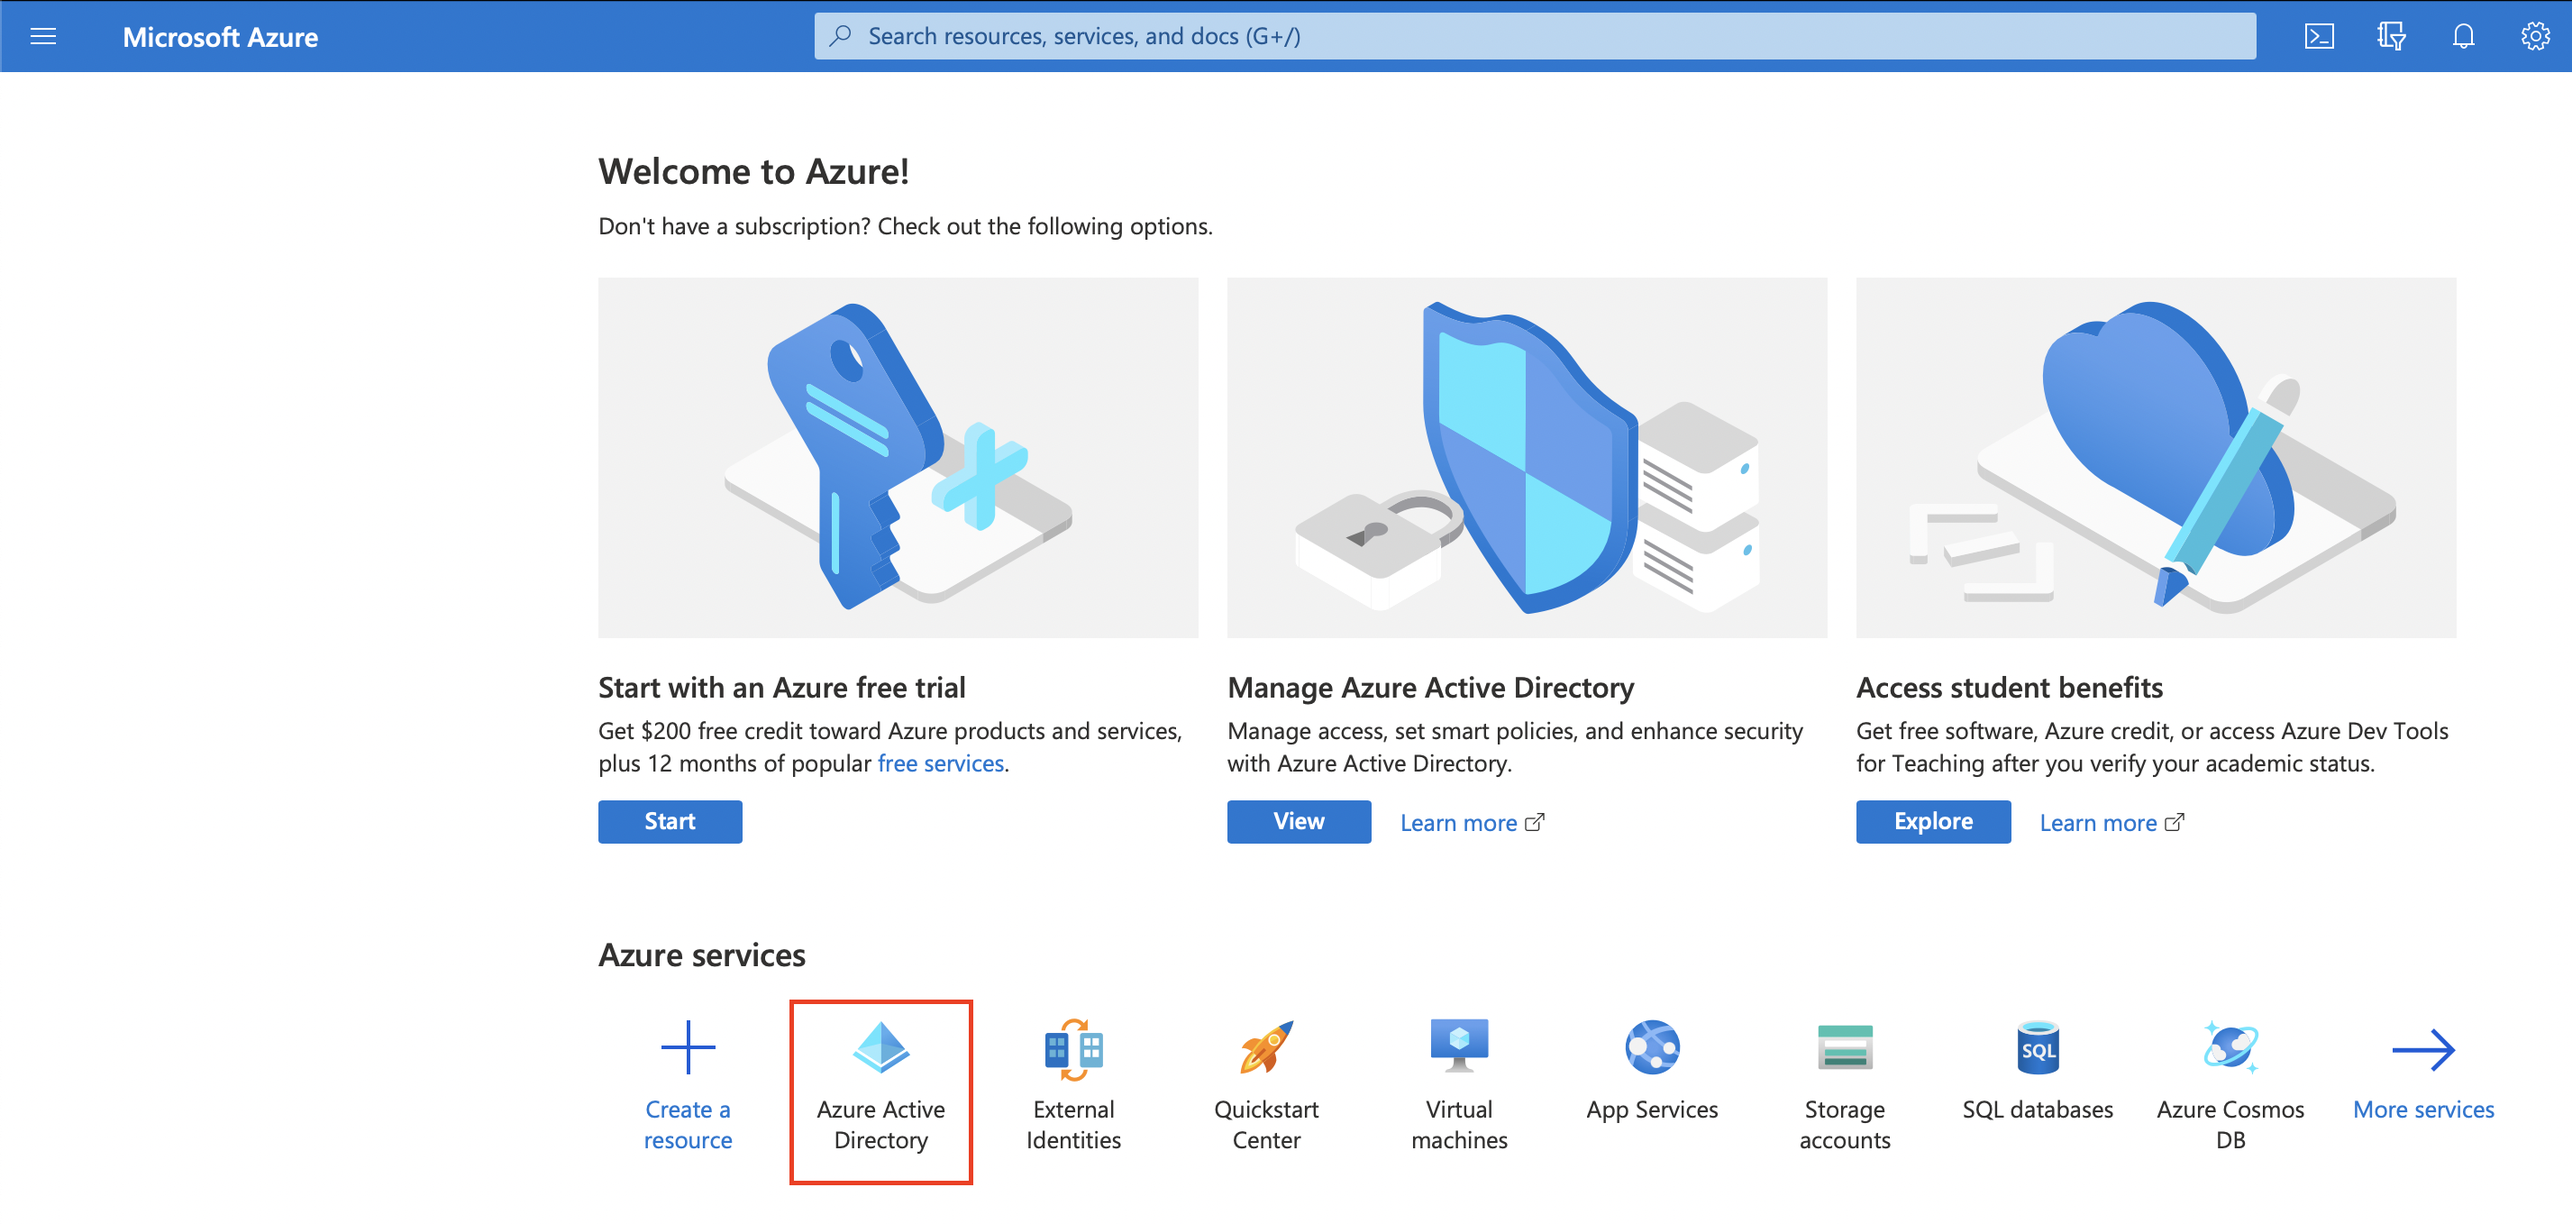
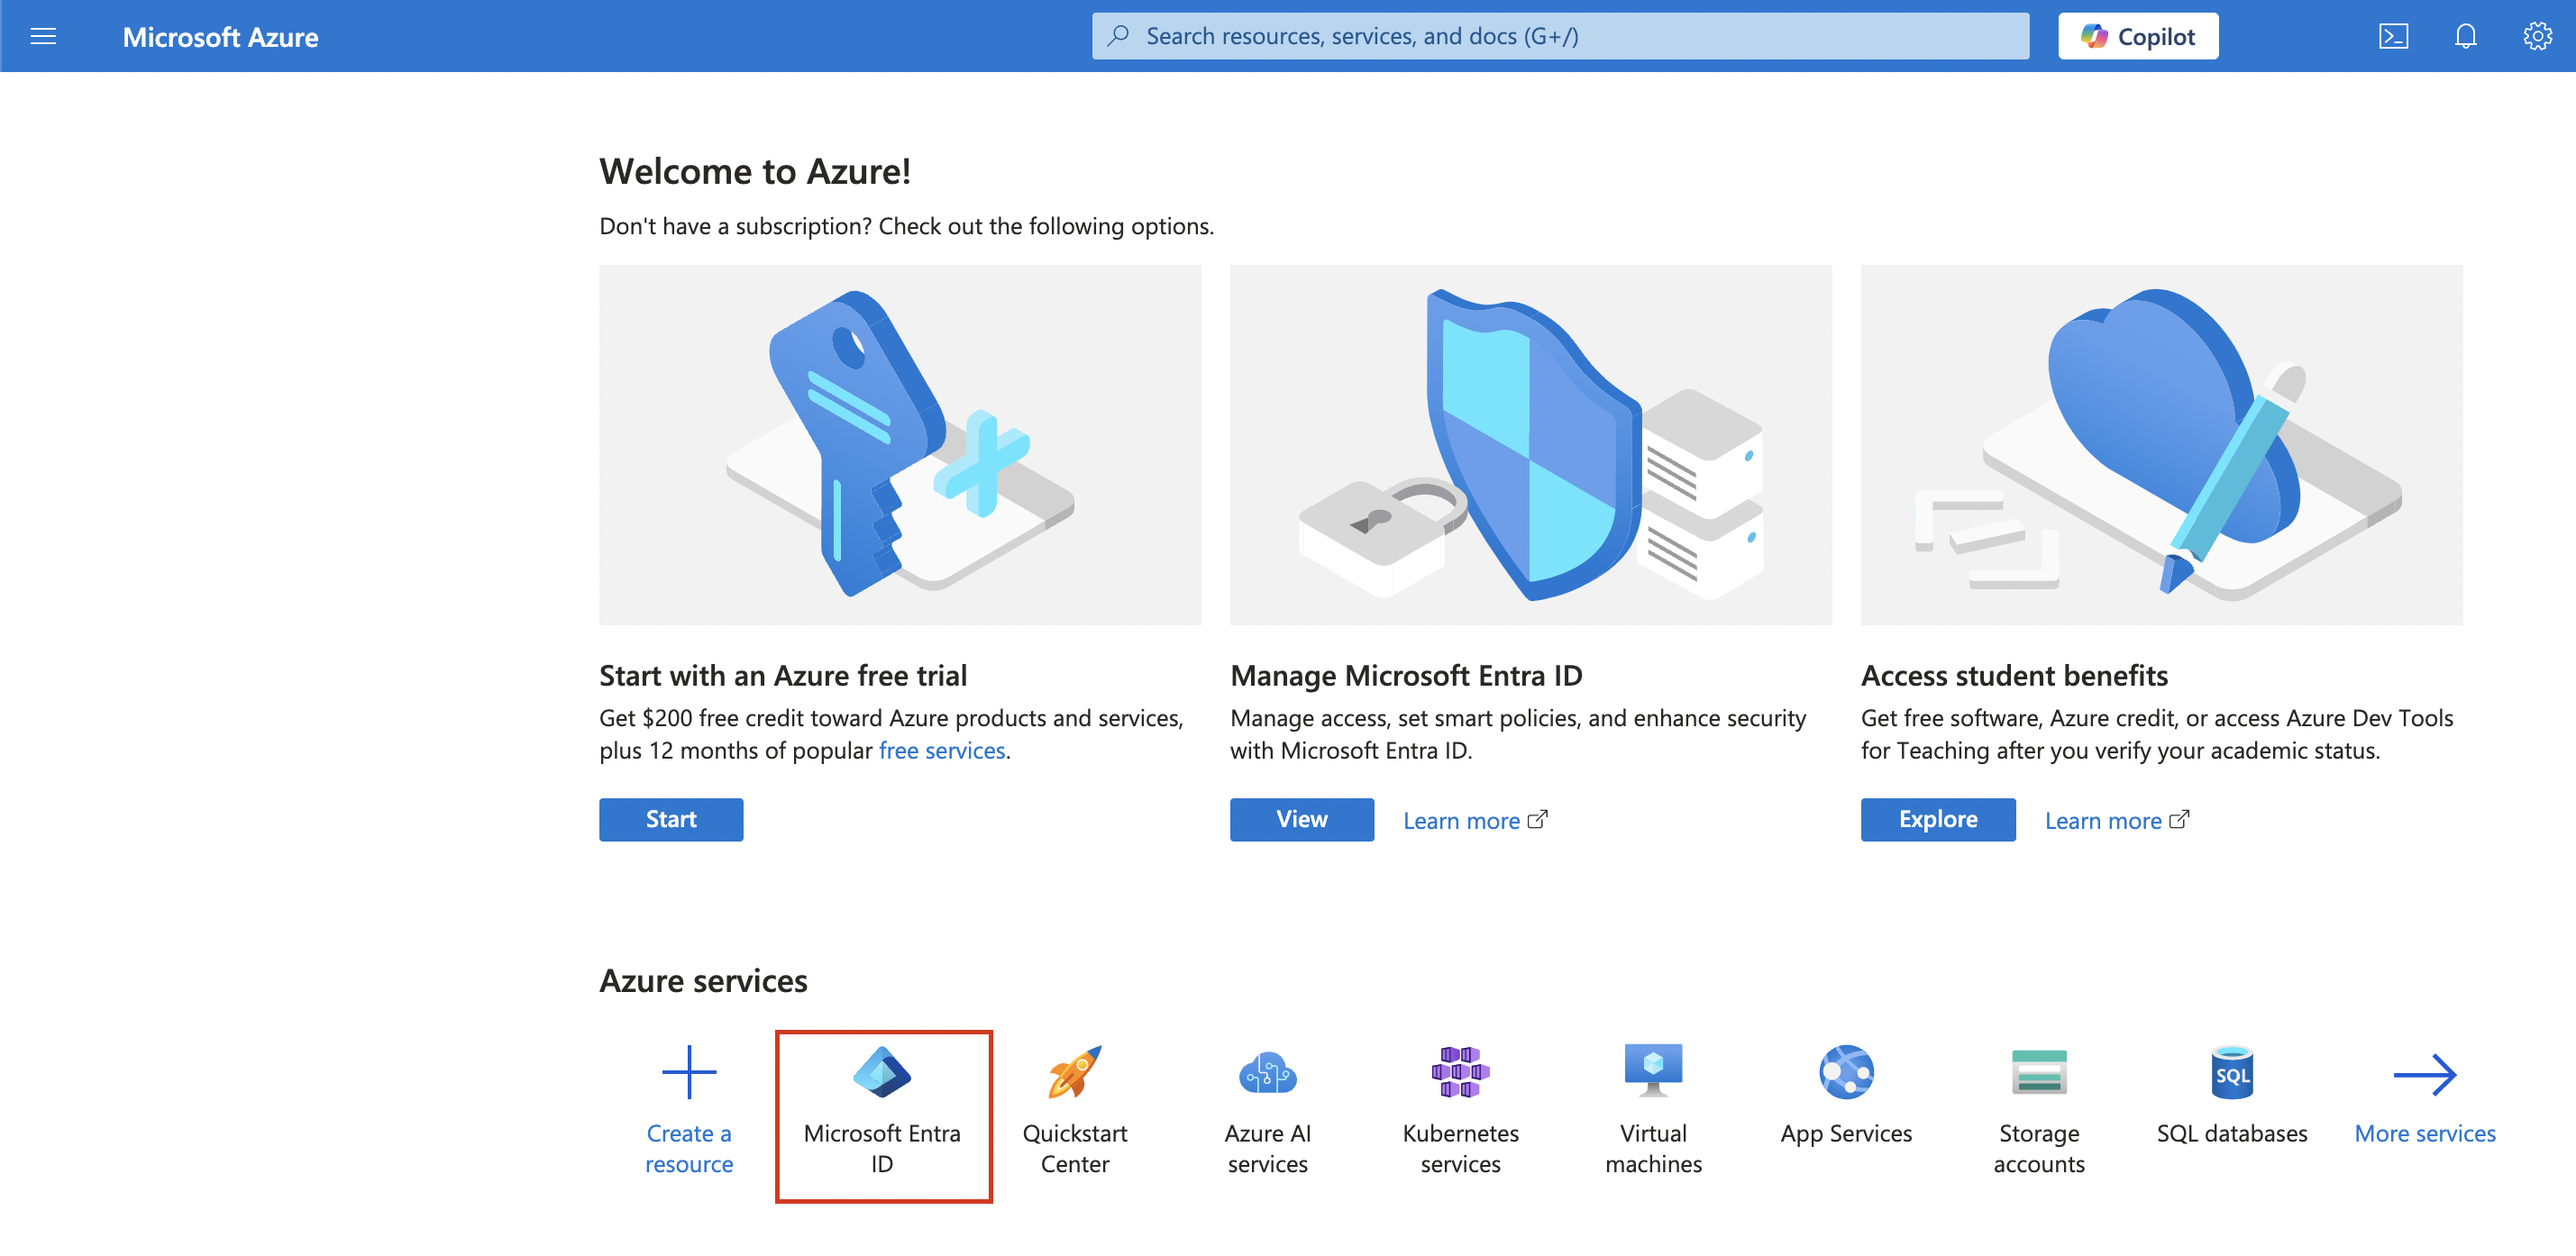
update: MS OAuth2 Azure to Entra
This updates the Microsoft OAuth2 documentation to change the verbiage
from "Azure Active Directory" to "Microsoft Entra ID". This also updates
the screenshots to match the new verbiage/layout.

diff --git a/OAuth2/Microsoft Authentication (SSO) Guide.rst b/OAuth2/Microsoft Authentication (SSO) Guide.rst
@@ -10,23 +10,23 @@ Microsoft OAuth allows Agents and Users to sign into the helpdesk with their Mic
 Configuration
 -------------
 
-Choose 'Microsoft' in the 'Add New Instance' menu
+Choose **Microsoft** in the **Add New Instance** menu
 
 .. image:: ../_static/images/oauth-authentication/oauth44_microsoft_inst.png
   :alt: oauth44_microsoft_inst
 
 |br|
 
-Give the instance a name that lets you know which provider is selected and select 'Enabled' for the status.
+Give the instance a name that lets you know which provider is selected and select **Enabled** for the status.
 
 .. image:: ../_static/images/oauth-authentication/oauth12_enable_inst.png
   :alt: oauth12_enable_inst
 
 |br|
 
-Go to the 'Config' tab to set up this provider. Some of the default information will be autofilled.
+Go to the **Config** tab to set up this provider. Some of the default information will be autofilled.
 
-**Note:** The 'Authentication Label' field is the text that will be displayed to the User or Agent when they sign into the helpdesk.
+**Note:** The **Authentication Label** field is the text that will be displayed to the User or Agent when they sign into the helpdesk.
 
 .. image:: ../_static/images/oauth-authentication/oauth13_inst_empty.png
   :alt: oauth13_inst_empty
@@ -40,7 +40,7 @@ Choose an Authentication Target to specify who should be able to use this provid
 
 |br|
 
-Now you need to set up an application using your Microsoft account. The first thing you need to do is log in to the `Azure Portal <https://portal.azure.com/#home>`_. which brings you to your Dashboard.
+Now you need to set up an application using your Microsoft account. The first thing you need to do is login to the `Azure Portal <https://portal.azure.com>`_.
 
 .. image:: ../_static/images/oauth-authentication/oauth1_azure_dashboard.png
   :alt: oauth1_azure_dashboard
@@ -56,14 +56,18 @@ Now you need to set up an application using your Microsoft account. The first th
 
 In order to use OAuth, you must have an account with administrative access to a tenant or you must be added to a tenant by an administrator.
 
-Next, you'll need to go to 'Azure Active Directory' and click 'App Registrations'.
+Next, you'll need to go to **Microsoft Entra ID** and click **App Registrations**.
 
 .. image:: ../_static/images/oauth-authentication/oauth85_app_regis.png
   :alt: oauth85_app_regis
 
+|
+
+.. image:: ../_static/images/oauth-authentication/oauth85_app_regis2.png
+
 |br|
 
-Click 'New Registration'
+Click **New Registration**
 
 .. image:: ../_static/images/oauth-authentication/oauth86_new_regis.png
   :alt: oauth86_new_regis
@@ -77,7 +81,7 @@ Click 'New Registration'
 
 Name the application and choose the supported account types:
 
-**Note:** The supported account type will determine the 'Authorization Endpoint' and 'Token Endpoint' in your osTicket instance.
+**Note:** The supported account type will determine the **Authorization Endpoint** and **Token Endpoint** in your osTicket instance.
 
 .. image:: ../_static/images/oauth-authentication/oauth41_act_type.png
   :alt: oauth41_act_type
@@ -110,7 +114,7 @@ Once you click Register, it will take you to the Overview for your new Applicati
 
 |br|
 
-Copy the 'Application (client) ID and paste it into the Client ID field in your osTicket plugin instance:
+Copy the **Application (client) ID** and paste it into the Client ID field in your osTicket plugin instance:
 
 .. image:: ../_static/images/oauth-authentication/oauth20_azure_cid.png
   :alt: oauth20_azure_cid
@@ -122,45 +126,45 @@ Copy the 'Application (client) ID and paste it into the Client ID field in your 
 
 |br|
 
-Go back to Azure and click 'Add a certificate or secret'
+Go back to Azure and click **Add a certificate or secret**
 
 .. image:: ../_static/images/oauth-authentication/oauth22_add_secret.png
   :alt: oauth22_add_secret
 
 |br|
 
-Click 'New Client Secret' to generate a new Client Secret
+Click **New Client Secret** to generate a new Client Secret
 
 .. image:: ../_static/images/oauth-authentication/oauth23_new_secret.png
   :alt: oauth23_new_secret
 
 |br|
 
-Add a secret description and click 'Add'
+Add a secret description and click **Add**
 
 .. image:: ../_static/images/oauth-authentication/oauth24_secret_desc.png
   :alt: oauth24_secret_desc
 
-**Important:** The secret 'Value' will only be shown once. If you lose this value, you will have to generate a new one.
+**Important:** The secret **Value** will only be shown once. If you lose this value, you will have to generate a new one.
 
 .. image:: ../_static/images/oauth-authentication/oauth25_secret_val.png
   :alt: oauth25_secret_val
 
 |br|
 
-Copy the value and paste it into the 'Client Secret' field on the osTicket instance:
+Copy the value and paste it into the **Client Secret** field on the osTicket instance:
 
 .. image:: ../_static/images/oauth-authentication/oauth26_ost_secret.png
   :alt: oauth26_ost_secret
 
 |br|
 
-Now you will need to get the Endpoint values from Azure. Go back to the 'Overview' tab and click the 'Endpoints' option.
+Now you will need to get the Endpoint values from Azure. Go back to the **Overview** tab and click the **Endpoints** option.
 
 .. image:: ../_static/images/oauth-authentication/oauth27_overview_endpoint.png
   :alt: oauth27_overview_endpoint
 
-The supported account type chosen will determine the values for the 'Authorization Endpoint' and 'Token Endpoint' in your osTicket instance.
+The supported account type chosen will determine the values for the **Authorization Endpoint** and **Token Endpoint** in your osTicket instance.
 
 |br|
 
@@ -192,7 +196,7 @@ Personal Microsoft Account Endpoints:
 
 |br|
 
-Copy the 'OAuth 2.0 authorization endpoint (v2)' and paste it into the 'Authorization Endpoint' field in the osTicket instance.
+Copy the **OAuth 2.0 authorization endpoint (v2)** and paste it into the **Authorization Endpoint** field in the osTicket instance.
 
 .. image:: ../_static/images/oauth-authentication/oauth92_azure_auth_end.png
   :alt: oauth92_azure_auth_end
@@ -204,7 +208,7 @@ Copy the 'OAuth 2.0 authorization endpoint (v2)' and paste it into the 'Authoriz
 
 |br|
 
-Copy the 'OAuth 2.0 token endpoint (v2)' and paste it into the 'Token Endpoint' field in the osTicket instance.
+Copy the **OAuth 2.0 token endpoint (v2)** and paste it into the **Token Endpoint** field in the osTicket instance.
 
 .. image:: ../_static/images/oauth-authentication/oauth94_azure_token_end.png
   :alt: oauth94_azure_token_end
@@ -223,7 +227,7 @@ The rest of the information should be autofilled in the osTicket instance for yo
 
 |br|
 
-Click 'Add Instance' and make sure you see a confirmation message.
+Click **Add Instance** and make sure you see a confirmation message.
 
 .. image:: ../_static/images/oauth-authentication/oauth34_added_inst.png
   :alt: oauth34_added_inst
@@ -244,9 +248,9 @@ Admin Panel | Agents
 
 |br|
 
-Ensure that you see the provider that was just set up in the list. It is important, however, to make sure you choose **'Use any available backend'** so that you can still log into your helpdesk in the event that OAuth has an error.
+Ensure that you see the provider that was just set up in the list. It is important, however, to make sure you choose **Use any available backend** so that you can still log into your helpdesk in the event that OAuth has an error.
 
-**Note:** You must also ensure that the email for the Agent exists in the organization you are setting up OAuth for. You can see your users by going to Azure and clicking the 'Users' tab.
+**Note:** You must also ensure that the email for the Agent exists in the organization you are setting up OAuth for. You can see your users by going to **Microsoft Entra ID** homepage and clicking the **Users** tab.
 
 .. image:: ../_static/images/oauth-authentication/oauth40_azure_users.png
   :alt: oauth40_azure_users
@@ -260,7 +264,7 @@ Log out of the helpdesk and go to the login screen.
 
 |br|
 
-Click the 'Sign in with Azure' button to test the OAuth set up.
+Click the **Sign in with Azure** button to test the OAuth set up.
 
 **Note:** The sign in button text can be configured by changing the Authentication Label in the osTicket instance setup.
 
@@ -290,14 +294,14 @@ For users, logging in with a Microsoft account should create a new User if one d
 
 |br|
 
-Click 'Sign In'
+Click **Sign In**
 
 .. image:: ../_static/images/oauth-authentication/oauth83_user_login.png
   :alt: oauth83_user_login
 
 |br|
 
-Click 'Sign in with Azure'. Now you will be prompted to enter your Microsoft account password.
+Click **Sign in with Azure**. Now you will be prompted to enter your Microsoft account password.
 
 .. image:: ../_static/images/oauth-authentication/oauth84_choose_outlook.png
   :alt: oauth84_choose_outlook

diff --git a/OAuth2/Microsoft Authorization Guide.rst b/OAuth2/Microsoft Authorization Guide.rst
@@ -13,15 +13,15 @@ First we will need to click on a System Email and go to the **Remote Mailbox** t
 .. image:: ../_static/images/ms_oauth2_autho_1.png
   :alt: Remote Mailbox Tab
 
-Once the option is selected you can click the **Config** button. Once the popup appears click the **IdP Config** tab to start configuring OAuth2. Here you will be presented with a form to input information from your provider (Microsoft). Most of the information is prefilled and does not need to be changed. The important thing at this stage is to copy the **Callback Endpoint** (at the top of the popup) to your clipboard for a later step in this guide.
+Once the option is selected you can click the **Config** button. Once the popup appears click the **IdP Config** tab to start configuring OAuth2. Here you will be presented with a form to input information from your provider (Microsoft). Some of the information is prefilled and does not need to be changed. The important thing at this stage is to copy the **Callback Endpoint** (at the top of the popup) to your clipboard for a later step in this guide.
 
 .. image:: ../_static/images/ms_oauth2_autho_2.png
   :alt: Configure OAuth2 Form
 
-Once you've copied the **Callback Endpoint** let's head on over to **Azure Portal** (*preferably in a new tab*) to register a new application. In the Azure Portal let's click the **Azure Active Directory** service. If you cannot find it on the homepage click **More Services** and search for it.
+Once you've copied the **Callback Endpoint** let's head on over to `Azure Portal <https://portal.azure.com>`__ (*preferably in a new tab*) to register a new application. In the Azure Portal let's click the **Microsoft Entra ID** service. If you cannot find it on the homepage click **More Services** and search for it.
 
 .. image:: ../_static/images/ms_oauth2_autho_3.png
-  :alt: Azure Portal - Azure Active Directory
+  :alt: Azure Portal - Mircrosoft Entra ID
 
 Next, click the **App Registrations** tab and then click **+ New registration** to create a new application.
 
@@ -94,16 +94,6 @@ To confirm Admin Consent was granted for the permissions, review the permissions
 
 .. image:: ../_static/images/ms_oauth2_autho_24.png
   :alt: Permissions table consented
-
-Once you confirm the permissions are correct and they have Admin Consent, click the **Authentication** tab and scroll to the **Implicit grant and hybrid flows** section. Here you will enable both **Access Tokens** and **ID Tokens** and click **Save** to save the changes.
-
-.. image:: ../_static/images/ms_oauth2_autho_17.png
-  :alt: Authentication tab
-
-|
-
-.. image:: ../_static/images/ms_oauth2_autho_18.png
-  :alt: Access/ID Tokens
 
 Now we can create the Client Secret by clicking the **Certificates & secrets** tab and clicking the **+ New client secret** button.
 
